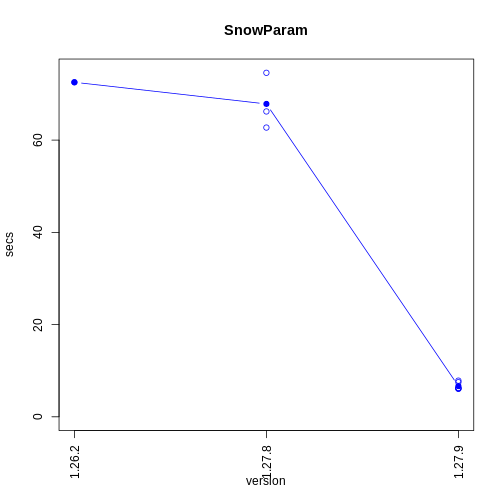
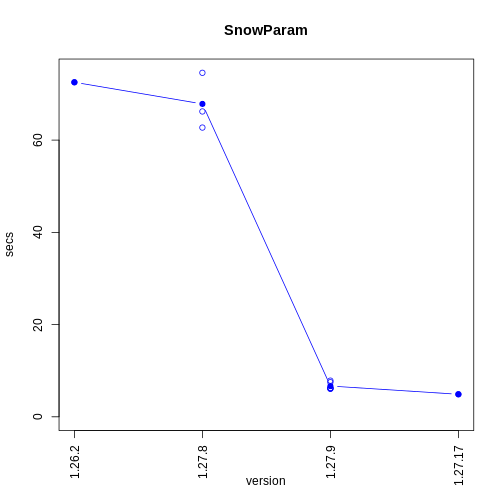
Update README.md and results

diff --git a/README.md b/README.md
@@ -13,12 +13,12 @@ where n=100000. All parallel functions use its default setting. Below is the tab
 
 |   |source             |package      |backend        |version |call      | time(sec)| performance relative to baseline(%)|
 |:--|:------------------|:------------|:--------------|:-------|:---------|---------:|-----------------------------------:|
-|1  |r-base             |parallel     |socket         |4.1.1   |parLapply |     0.355|                              100.00|
-|5  |r-base             |foreach      |doParallel     |1.0.16  |foreach   |    42.785|                                0.83|
-|6  |r-base             |base         |NA             |4.1.1   |lapply    |     0.345|                              102.90|
-|2  |BioConductor-devel |BiocParallel |SerialParam    |1.27.9  |bplapply  |     6.076|                                5.84|
-|3  |BioConductor-devel |BiocParallel |SnowParam      |1.27.9  |bplapply  |     5.857|                                6.06|
-|4  |BioConductor-devel |BiocParallel |MulticoreParam |1.27.9  |bplapply  |    88.526|                                0.40|
+|1  |r-base             |parallel     |socket         |4.1.1   |parLapply |     0.308|                              100.00|
+|5  |r-base             |foreach      |doParallel     |1.0.16  |foreach   |    31.391|                                0.98|
+|6  |r-base             |base         |NA             |4.1.1   |lapply    |     0.261|                              118.01|
+|2  |BioConductor-devel |BiocParallel |SerialParam    |1.27.17 |bplapply  |    10.165|                                3.03|
+|3  |BioConductor-devel |BiocParallel |SnowParam      |1.27.17 |bplapply  |     4.553|                                6.76|
+|4  |BioConductor-devel |BiocParallel |MulticoreParam |1.27.17 |bplapply  |    64.241|                                0.48|
 
 
 # CPU intensive benchmark
@@ -39,12 +39,12 @@ where n=100. All parallel functions use its default setting.
 
 |   |source             |package      |backend        |version |call      | time(sec)| performance relative to baseline(%)|
 |:--|:------------------|:------------|:--------------|:-------|:---------|---------:|-----------------------------------:|
-|1  |r-base             |parallel     |socket         |4.1.1   |parLapply |    85.929|                              100.00|
-|5  |r-base             |foreach      |doParallel     |1.0.16  |foreach   |    83.672|                              102.70|
-|6  |r-base             |base         |NA             |4.1.1   |lapply    |   166.261|                               51.68|
-|2  |BioConductor-devel |BiocParallel |SerialParam    |1.27.9  |bplapply  |   217.415|                               39.52|
-|3  |BioConductor-devel |BiocParallel |SnowParam      |1.27.9  |bplapply  |   116.008|                               74.07|
-|4  |BioConductor-devel |BiocParallel |MulticoreParam |1.27.9  |bplapply  |   114.982|                               74.73|
+|1  |r-base             |parallel     |socket         |4.1.1   |parLapply |    67.840|                              100.00|
+|5  |r-base             |foreach      |doParallel     |1.0.16  |foreach   |    64.208|                              105.66|
+|6  |r-base             |base         |NA             |4.1.1   |lapply    |   142.056|                               47.76|
+|2  |BioConductor-devel |BiocParallel |SerialParam    |1.27.17 |bplapply  |   190.863|                               35.54|
+|3  |BioConductor-devel |BiocParallel |SnowParam      |1.27.17 |bplapply  |    89.407|                               75.88|
+|4  |BioConductor-devel |BiocParallel |MulticoreParam |1.27.17 |bplapply  |    90.144|                               75.26|
 
 # BiocParallel benchmark history
 ## Overhead
@@ -64,7 +64,7 @@ benchmarkme::get_cpu()
 #> [1] "GenuineIntel"
 #> 
 #> $model_name
-#> [1] "Intel(R) Xeon(R) Platinum 8171M CPU @ 2.60GHz"
+#> [1] "Intel(R) Xeon(R) Platinum 8272CL CPU @ 2.60GHz"
 #> 
 #> $no_of_cores
 #> [1] 2
